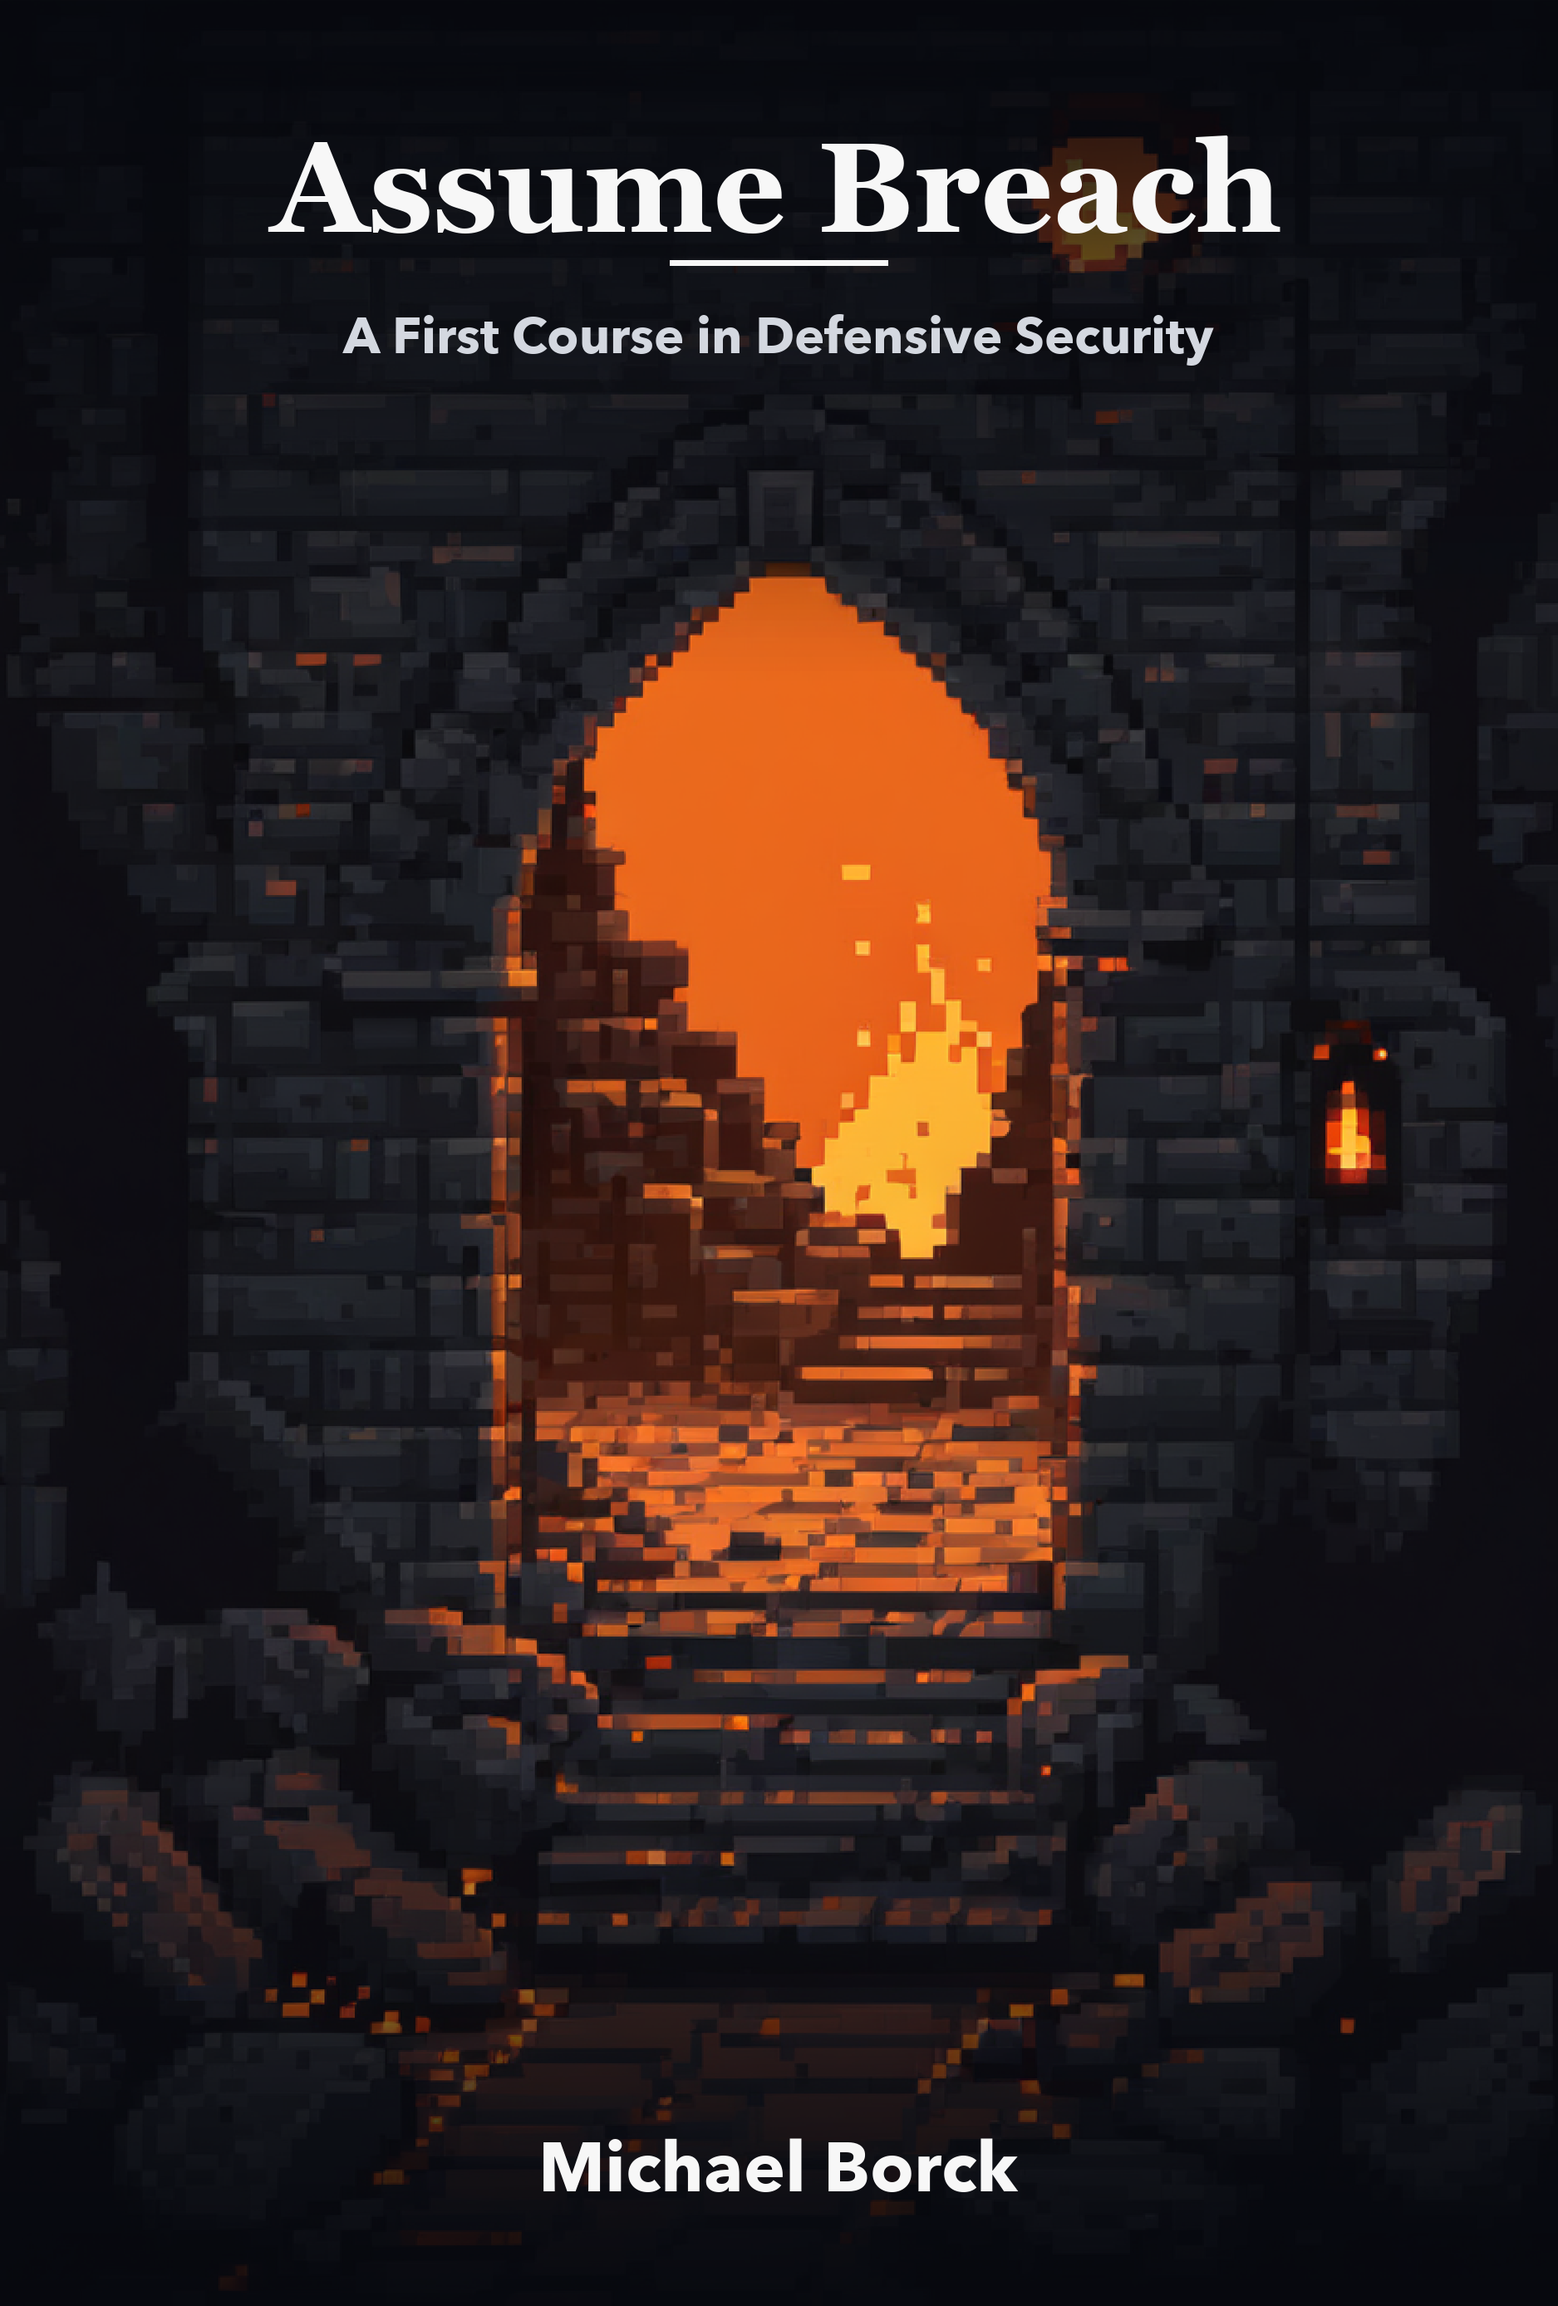
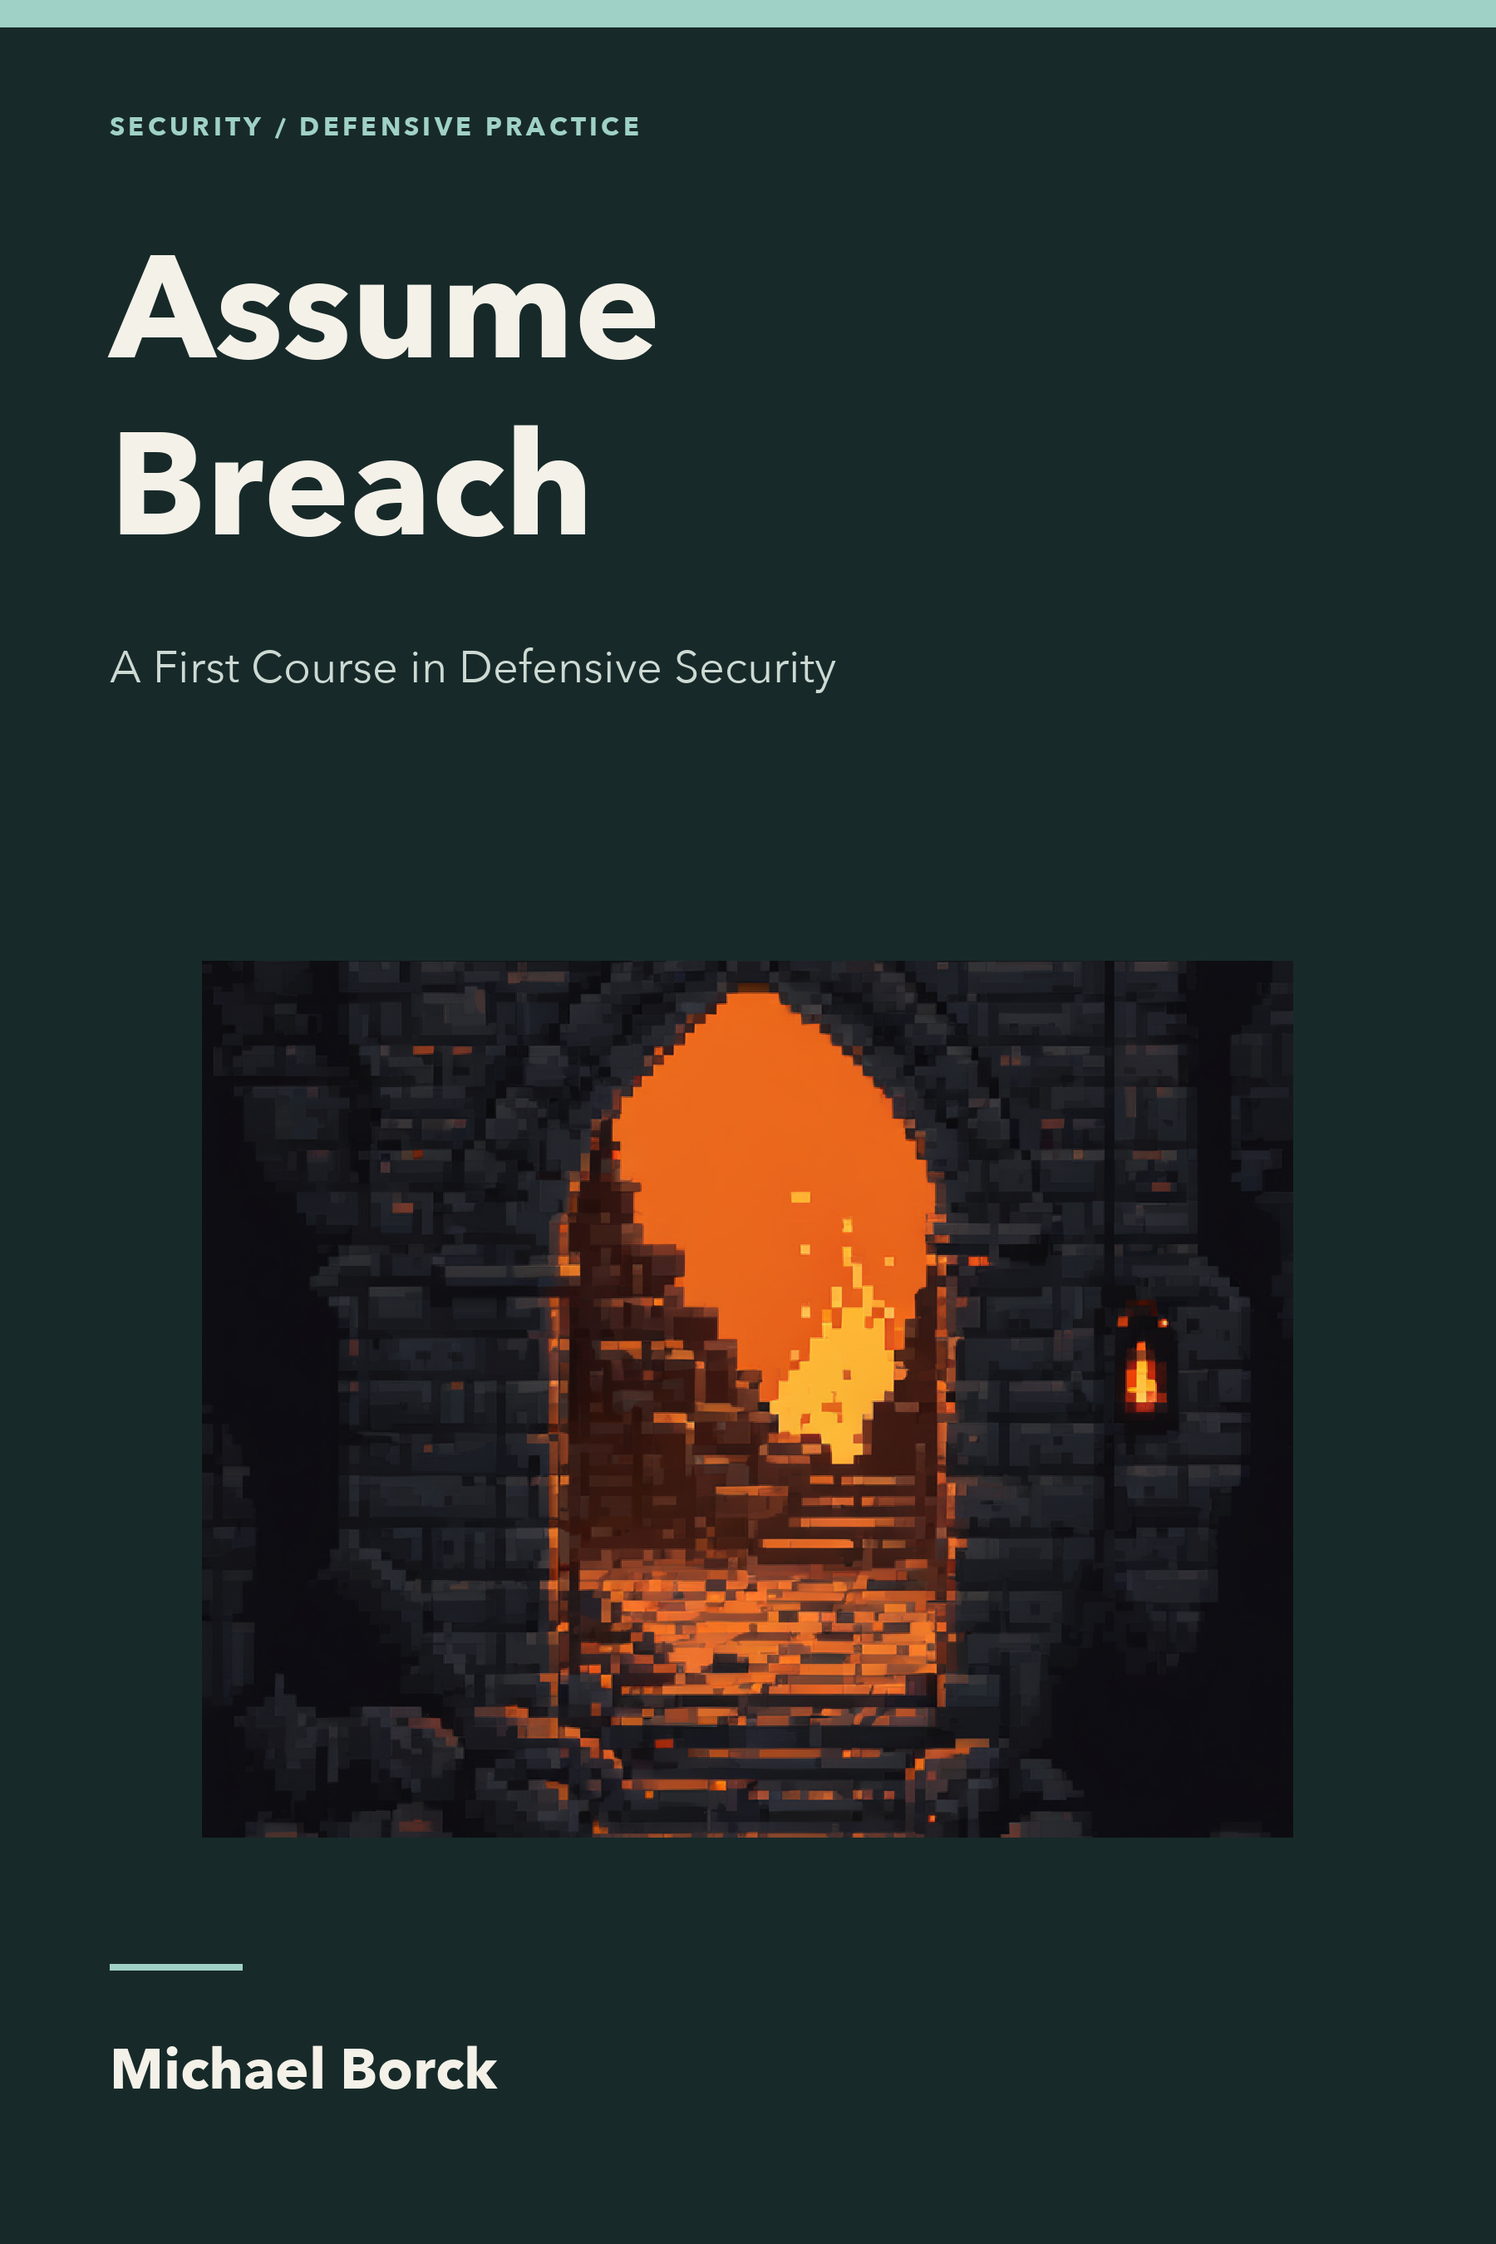
Editorial pass (humanizer, STYLE-aligned) and cover/design assets
Line edit across the manuscript under STYLE.md precedence: antithesis,
closers, staged run-ups, meta-writing, borrowed authority and surviving
dashes. Numbers, links, cross-references and headings diff-verified
unchanged; manuscript checker and HTML render pass. Also commits the
pending editorial-C cover and shared book-design assets.

diff --git a/book-design.css b/book-design.css
@@ -1,0 +1,118 @@
+/* Generated by book-publisher/tools/sync_book_design.py. Edit the canonical
+   template in book-publisher/design/, then sync. Design revision: 2026-09-17. */
+:root {
+  --book-accent: #28675F;
+  --book-tint: #DFE9E4;
+  --book-dark-accent: #A0D1C6;
+  --book-ink: #252825;
+  --book-muted: #535B56;
+  --book-page: #FFFFFF;
+  --book-rule: #D9DEDA;
+  --book-heading-font: "Avenir Next", Avenir, "Segoe UI", Arial, sans-serif;
+  --book-body-font: Charter, "Bitstream Charter", "XCharter", Georgia, serif;
+  --book-code-font: "SFMono-Regular", Menlo, Consolas, "Liberation Mono", monospace;
+}
+body.quarto-dark {
+  --book-accent: var(--book-dark-accent);
+  --book-tint: #29322F;
+  --book-ink: #E8ECE9;
+  --book-muted: #BEC8C1;
+  --book-page: #191E1B;
+  --book-rule: #47544C;
+}
+body {
+  font-family: var(--book-body-font);
+  color: var(--book-ink);
+  background-color: var(--book-page);
+  font-size: 1.125rem;
+  line-height: 1.65;
+}
+main.content { min-width: 0; }
+main.content h1, main.content h2, main.content h3,
+main.content h4, main.content h5, main.content h6 {
+  font-family: var(--book-heading-font);
+  color: var(--book-accent);
+  font-weight: 700;
+  line-height: 1.25;
+  border-bottom: 0;
+  padding-bottom: 0;
+  margin-top: 1.8em;
+  margin-bottom: .65em;
+  overflow-wrap: break-word;
+}
+main.content h1.title {
+  color: var(--book-ink);
+  font-size: clamp(2rem, 4vw, 2.8rem);
+  line-height: 1.15;
+  letter-spacing: -.025em;
+  margin-top: .4em;
+}
+main.content h2 { font-size: 1.65em; }
+main.content h3 { font-size: 1.3em; }
+#title-block-header {
+  border-top: 5px solid var(--book-accent);
+  padding-top: 1rem;
+  margin-bottom: 2rem;
+}
+#title-block-header .subtitle {
+  font-family: var(--book-heading-font);
+  font-weight: 500;
+  color: var(--book-accent);
+}
+.sidebar, .navbar, .quarto-title-meta, #TOC, .quarto-secondary-nav,
+.nav-tabs, .pagination, .page-navigation, .quarto-navigation-tool,
+button, input, select, .callout-title-container, figcaption, .panel-caption {
+  font-family: var(--book-heading-font);
+}
+.sidebar, #TOC { line-height: 1.45; }
+body.quarto-dark #quarto-sidebar, body.quarto-dark #quarto-margin-sidebar {
+  background-color: var(--book-page);
+  color: var(--book-ink);
+}
+body.quarto-dark #TOC a, body.quarto-dark .sidebar-item-text,
+body.quarto-dark .sidebar-title, body.quarto-dark #TOC .header-section-number {
+  color: var(--book-muted);
+}
+body.quarto-dark #TOC a.active, body.quarto-dark .sidebar-item-text.active {
+  color: var(--book-accent);
+}
+main.content p { margin-bottom: 1em; }
+main.content a:not(.btn):not(.nav-link):not(.anchorjs-link) {
+  color: var(--book-accent);
+  text-underline-offset: .16em;
+}
+main.content blockquote {
+  font-family: var(--book-body-font);
+  font-size: 1em;
+  line-height: 1.6;
+  color: var(--book-ink);
+  border-left: 3px solid var(--book-accent);
+  padding-left: 1em;
+}
+main.content .callout { margin-block: 1.5rem; border-radius: 3px; }
+main.content .callout-body { font-family: var(--book-body-font); font-size: 1rem; line-height: 1.6; }
+main.content .callout-title-container { font-weight: 600; }
+main.content .callout.callout-note { border-left-color: var(--book-accent); }
+main.content .callout.callout-note > .callout-header { background-color: var(--book-tint); }
+main.content figure { margin-block: 1.5em; }
+main.content figcaption { color: var(--book-muted); font-size: .85em; line-height: 1.5; }
+/* Preserve artwork colours, including pixel art and author photographs. A
+   white backing keeps transparent black line art readable in dark mode. */
+body.quarto-dark main.content img { filter: none; background-color: #FFFFFF; }
+main.content table { font-size: .94em; line-height: 1.5; }
+main.content th { font-family: var(--book-heading-font); font-weight: 600; }
+pre, code, kbd, samp, .sourceCode { font-family: var(--book-code-font); }
+pre, pre code { line-height: 1.5; }
+main.content details > summary { font-family: var(--book-heading-font); font-weight: 600; }
+@media (max-width: 600px) {
+  body { font-size: 1.0625rem; }
+  main.content h2 { font-size: 1.45em; }
+  main.content h3 { font-size: 1.2em; }
+  main.content table { display: block; max-width: 100%; overflow-x: auto; }
+}
+@media print {
+  body { color: #252825; background: #FFFFFF; font-size: 11pt; }
+  main.content h1, main.content h2, main.content h3 { break-after: avoid; }
+  main.content p { orphans: 3; widows: 3; }
+  main.content figure { break-inside: avoid; }
+}

diff --git a/book-design-epub.css b/book-design-epub.css
@@ -1,0 +1,28 @@
+/* Generated by book-publisher/tools/sync_book_design.py. Edit the canonical
+   template in book-publisher/design/, then sync. Design revision: 2026-09-17. */
+body {
+  font-family: Charter, "Bitstream Charter", "XCharter", Georgia, serif;
+  line-height: 1.6;
+}
+h1, h2, h3, h4, h5, h6 {
+  font-family: "Avenir Next", Avenir, "Segoe UI", Arial, sans-serif;
+  font-weight: bold;
+  line-height: 1.25;
+  color: #28675F;
+  page-break-after: avoid;
+}
+h1 { margin-top: 1.5em; margin-bottom: .75em; }
+h2, h3 { margin-top: 1.5em; margin-bottom: .6em; }
+p { margin-top: 0; margin-bottom: .8em; orphans: 3; widows: 3; }
+blockquote { border-left: .15em solid #28675F; padding-left: .8em; margin-left: .5em; }
+figcaption, th {
+  font-family: "Avenir Next", Avenir, "Segoe UI", Arial, sans-serif;
+}
+figcaption { font-size: .85em; line-height: 1.5; }
+pre, code, kbd, samp { font-family: "SFMono-Regular", Menlo, Consolas, monospace; }
+pre { white-space: pre-wrap; overflow-wrap: break-word; }
+img { max-width: 100%; height: auto; }
+@media (prefers-color-scheme: dark) {
+  h1, h2, h3, h4, h5, h6 { color: #A0D1C6; }
+  img { filter: none; background-color: white; }
+}

diff --git a/book-design.tex b/book-design.tex
@@ -1,0 +1,30 @@
+% Generated by book-publisher/tools/sync_book_design.py. Edit the canonical
+% template in book-publisher/design/, then sync. Design revision: 2026-09-17.
+\usepackage{iftex}
+\ifPDFTeX
+  \PackageError{book-design}{The book design requires LuaLaTeX or XeLaTeX}
+    {Use the pdf-engine setting in the book's Quarto configuration.}
+\else
+  \usepackage{fontspec}
+  \IfFontExistsTF{Charter}{\setmainfont{Charter}}{%
+    \IfFontExistsTF{XCharter}{\setmainfont{XCharter}}{%
+      \setmainfont{TeX Gyre Pagella}
+      \PackageWarningNoLine{book-design}{Charter unavailable; using TeX Gyre Pagella}%
+    }%
+  }
+  \IfFontExistsTF{Avenir Next}{\setsansfont{Avenir Next}}{%
+    \setsansfont{TeX Gyre Heros}
+    \PackageWarningNoLine{book-design}{Avenir Next unavailable; using TeX Gyre Heros}%
+  }
+\fi
+\usepackage{xcolor}
+\definecolor{BookAccent}{HTML}{28675F}
+\definecolor{BookInk}{HTML}{252825}
+\usepackage{sectsty}
+\allsectionsfont{\sffamily\bfseries\color{BookAccent}}
+\chapterfont{\sffamily\bfseries\color{BookInk}}
+\partfont{\sffamily\bfseries\color{BookInk}}
+\usepackage{caption}
+\captionsetup{font={small,sf},labelfont=bf}
+\setlength{\parindent}{0pt}
+\setlength{\parskip}{0.6em plus 0.15em minus 0.1em}

diff --git a/cover-page.tex b/cover-page.tex
@@ -1,5 +1,5 @@
 \begin{titlepage}
 \centering
 \vspace*{-1in}
-\makebox[\textwidth]{\includegraphics[width=\paperwidth,height=\paperheight,keepaspectratio]{images/cover.png}}
+\makebox[\textwidth]{\includegraphics[width=\paperwidth,height=\paperheight,keepaspectratio]{cover.png}}
 \end{titlepage}

diff --git a/STYLE.md b/STYLE.md
@@ -3,7 +3,8 @@
 > **Note:** the workspace-level [`../STYLE.md`](../STYLE.md) is now the house style for the
 > whole series. This file is kept because **Rule 2 (no decorative emoji) applies to this
 > book alone**, because three other books use emoji as a declared navigation system. Everything
-> else here matches the root guide; read that one first.
+> else here matches the root guide; read that one first. The root guide also covers how
+> to work with or without the `humanizer` skill; nothing in this copy overrides that.
 
 House style for the prose, and the brief for the editorial pass. Apply to every chapter, the
 preface (`index.qmd`), and the appendix. This is a **line edit for style, not a rewrite of
